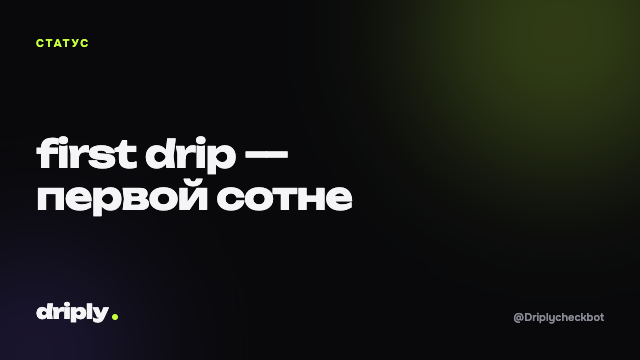
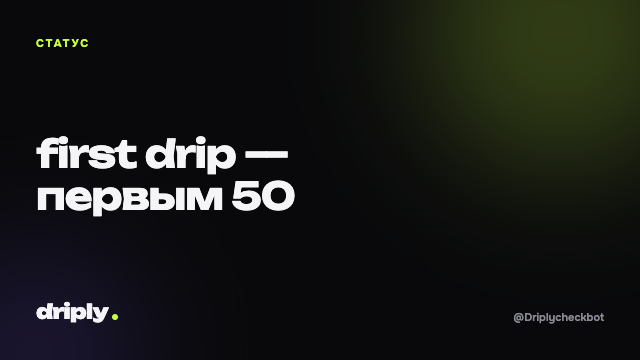
start message rewrite, live first-drip slot counter, unified errors (v3.5)

Changed region(s): [[0.2188, 0.4889, 0.5625, 0.6111]]

diff --git a/supabase/functions/tg-webhook/index.ts b/supabase/functions/tg-webhook/index.ts
@@ -23,25 +23,35 @@ const WEBAPP_HTTPS = WEBAPP_URL.startsWith('https://')
 
 const COPY = {
   ru: {
-    welcome: '<b>Driply</b> — открывай мини-апп, там всё 👇',
-    welcome_ref: '<b>Driply</b> — тебя пригласил друг. Открой мини-апп и выложи первый образ: бонус придёт обоим 👇',
+    welcome: '<b>driply</b> — лента образов 💧\n\nвыкладываешь лук → тебе кидают дрипы → чем больше дрипов, тем выше ты в рейтинге\n\nдрипы нельзя купить, только заработать. за первый образ — <b>300 💧</b>',
+    welcome_ref: '<b>driply</b> — лента образов 💧\n\nтебя позвал друг: выложи первый образ, и бонус упадёт обоим — тебе <b>+200 💧</b>, ему <b>+500 💧</b>\n\nдрипы нельзя купить, только заработать',
+    slots: (n: number) => `\n\nстатус <b>first drip</b> получат только первые 50 авторов. ${left(n)}`,
     open: 'Открыть Driply',
-    help: '<b>Driply</b> — лента образов.\n\n/app — открыть мини-апп\n/help — эта справка\n\nВопросы и жалобы — пиши сюда же, читаю.',
+    help: '<b>driply</b> — лента образов.\n\n/app — открыть мини-апп\n/help — эта справка\n\nчто-то сломалось, есть идея или предложение — пиши сюда же, читаю лично.',
     cmd_start: 'Открыть Driply',
     cmd_app: 'Открыть мини-апп',
     cmd_help: 'Что это и как работает',
     menu: 'Driply',
   },
   en: {
-    welcome: '<b>Driply</b> — open the mini app, it’s all there 👇',
-    welcome_ref: '<b>Driply</b> — a friend invited you. Open the mini app and post your first look: you both get a bonus 👇',
+    welcome: '<b>driply</b> — a feed of outfits 💧\n\npost a look → people drop drips on it → the more drips, the higher you rank\n\ndrips can’t be bought, only earned. your first look pays <b>300 💧</b>',
+    welcome_ref: '<b>driply</b> — a feed of outfits 💧\n\na friend invited you: post your first look and you both get paid — <b>+200 💧</b> to you, <b>+500 💧</b> to them\n\ndrips can’t be bought, only earned',
+    slots: (n: number) => `\n\nonly the first 50 authors get the <b>first drip</b> status. ${n} ${n === 1 ? 'spot' : 'spots'} left`,
     open: 'Open Driply',
-    help: '<b>Driply</b> is a feed of outfits.\n\n/app — open the mini app\n/help — this help\n\nQuestions or reports — just write here, I read them.',
+    help: '<b>driply</b> is a feed of outfits.\n\n/app — open the mini app\n/help — this help\n\nbroken something, got an idea or an offer — write here, I read every message.',
     cmd_start: 'Open Driply',
     cmd_app: 'Open the mini app',
     cmd_help: 'What this is and how it works',
     menu: 'Driply',
   },
+}
+
+// «осталось 43 места» / «41 место» / «2 места» — иначе текст выглядит машинным
+function left(n: number) {
+  const tail = n % 100 >= 11 && n % 100 <= 14 ? 'мест'
+    : n % 10 === 1 ? 'место'
+    : n % 10 >= 2 && n % 10 <= 4 ? 'места' : 'мест'
+  return `осталось ${n} ${tail}`
 }
 
 async function tg(method: string, body: unknown) {
@@ -75,6 +85,17 @@ function openButton(lang: 'ru' | 'en', ref: string | null) {
     ? { text: COPY[lang].open, web_app: { url } }
     : { text: COPY[lang].open, url }
   return { inline_keyboard: [[button]] }
+}
+
+// Строка про свободные места first drip. Не получилось посчитать — просто её не будет.
+async function slotsLine(lang: 'ru' | 'en') {
+  try {
+    const { data, error } = await db().rpc('first_drip_left')
+    if (error || typeof data !== 'number' || data <= 0) return ''
+    return COPY[lang].slots(data)
+  } catch {
+    return ''
+  }
 }
 
 async function track(tid: number, kind: string, meta: Record<string, unknown>) {
@@ -280,13 +301,13 @@ Deno.serve(async (req) => {
         const ref = parseRef(payload)
         await tg('sendMessage', {
           chat_id: chatId,
-          text: ref ? COPY[lang].welcome_ref : COPY[lang].welcome,
+          text: (ref ? COPY[lang].welcome_ref : COPY[lang].welcome) + await slotsLine(lang),
           parse_mode: 'HTML',
           reply_markup: openButton(lang, ref),
         })
         if (message.from?.id) await track(message.from.id, 'bot_start', { ref: Boolean(ref), lang })
       } else if (command === '/app') {
-        await tg('sendMessage', { chat_id: chatId, text: COPY[lang].welcome, parse_mode: 'HTML', reply_markup: openButton(lang, null) })
+        await tg('sendMessage', { chat_id: chatId, text: COPY[lang].welcome + await slotsLine(lang), parse_mode: 'HTML', reply_markup: openButton(lang, null) })
       } else if (command === '/help') {
         await tg('sendMessage', { chat_id: chatId, text: COPY[lang].help, parse_mode: 'HTML', reply_markup: openButton(lang, null) })
       }

diff --git a/web/src/PostComposer.jsx b/web/src/PostComposer.jsx
@@ -200,6 +200,7 @@ export default function PostComposer({ selfId, onClose, onPosted, firstPost = fa
   const [tagItems, setTagItems] = useState(false)
   const [draftRestored, setDraftRestored] = useState(false)
   const [hasPosts, setHasPosts] = useState(firstPost ? false : null)
+  const [slotsLeft, setSlotsLeft] = useState(null)
   const reward = hasPosts === false ? REWARD_FIRST : hasPosts ? REWARD_NEXT : null
 
   const remoteBrands = useItemSuggestions('brand', brand)
@@ -238,6 +239,12 @@ export default function PostComposer({ selfId, onClose, onPosted, firstPost = fa
       setDraftRestored(true)
     }
     track('composer_opened', { draft: Boolean(hasContent), first: firstPost })
+    // статус first drip — первым 50 авторам; на первом образе это самый весомый аргумент
+    if (firstPost) {
+      supabase.rpc('first_drip_left').then(({ data }) => {
+        if (typeof data === 'number' && data > 0) setSlotsLeft(data)
+      })
+    }
     warmUpNsfw()   // модель успеет загрузиться, пока человек готовит образ
     // eslint-disable-next-line react-hooks/exhaustive-deps
   }, [])
@@ -359,6 +366,9 @@ export default function PostComposer({ selfId, onClose, onPosted, firstPost = fa
             <span className="photo__empty">
               <span className="photo__label">{t('add_photo_title')}</span>
               <span className="photo__hint">{firstPost ? t('first_post_hint') : t('photos_hint', { n: MAX_PHOTOS })}</span>
+              {firstPost && slotsLeft !== null && (
+                <span className="photo__slots">{t('first_drip_left', { n: slotsLeft })}</span>
+              )}
               <span className="photo__ways">
                 {/* capture открывает камеру сразу, без системного меню выбора */}
                 <label className="photoway photoway--primary">

diff --git a/web/src/i18n.js b/web/src/i18n.js
@@ -97,6 +97,7 @@ const DICT = {
     photo_required: 'Добавь фото',
     post_failed: 'Не удалось выложить, попробуй ещё раз',
     first_post_hint: 'Достаточно фото. Детали можно добавить сейчас или позже.',
+    first_drip_left: 'Статус first drip — первым 50 авторам. Свободно мест: {n}',
     details_add: 'Добавить детали', details_hide: 'Скрыть детали',
     details_count: 'Детали · {n}',
     caption_placeholder: 'Подпись (необязательно)',
@@ -313,6 +314,7 @@ const DICT = {
     photo_required: 'Add a photo',
     post_failed: 'Couldn’t post, try again',
     first_post_hint: 'A photo is enough. Details can be added now or later.',
+    first_drip_left: 'The first drip status goes to the first 50 authors. Spots left: {n}',
     details_add: 'Add details', details_hide: 'Hide details',
     details_count: 'Details · {n}',
     caption_placeholder: 'Caption (optional)',

diff --git a/web/src/composer.css b/web/src/composer.css
@@ -142,6 +142,12 @@
 }
 .photo__label { font: 600 15px/1.2 var(--font-body); color: var(--text); }
 .photo__hint { max-width: 240px; font-size: 13px; line-height: 1.4; color: var(--text-muted); }
+/* дефицитный статус: единственная строка на экране, набранная акцентом */
+.photo__slots {
+  max-width: 240px; margin-top: 2px; padding: 6px 10px; border-radius: 999px;
+  font-size: 12px; font-weight: 600; line-height: 1.3;
+  color: var(--on-drip); background: var(--drip);
+}
 
 .caption-box {
   display: flex;
